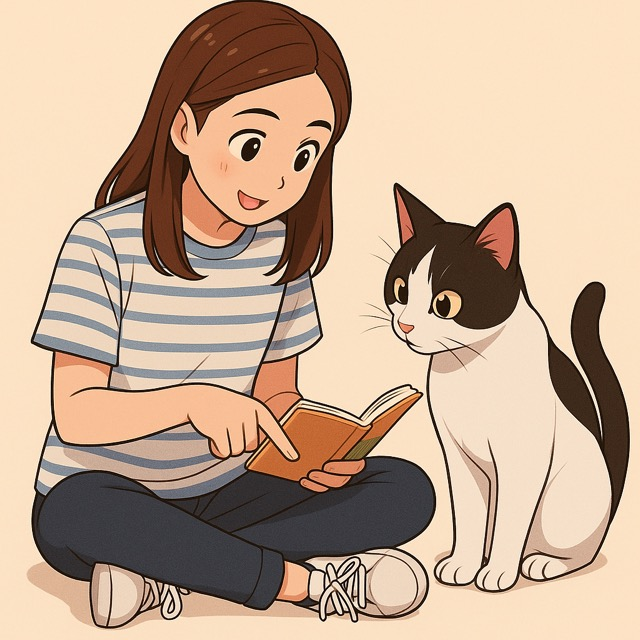
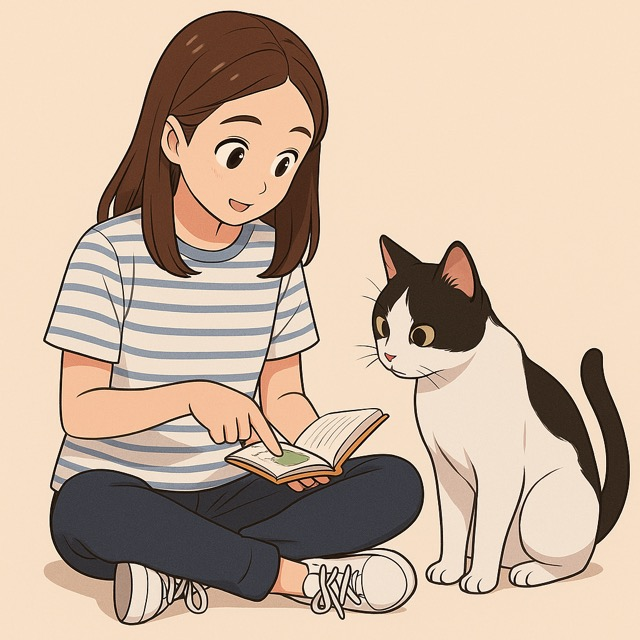
Fix motion-frame consistency and expand every activity to 5 frames (#49)
The educate activity's 3 motion frames didn't read as smooth animation
-- characters visibly grew larger frame to frame, since B/C had been
generated by chaining off the previous frame without constraining
camera distance, letting the model drift zoomed-in each time.

Regenerates every activity (play, train, groom, rest, educate, outing)
to a consistent 5-frame set instead of 3, always referencing a single
well-framed anchor rather than chaining frame-to-frame, with an
explicit "same camera distance, don't zoom in" instruction. Also fixes
a real pre-existing gap: rest's 3rd frame was never generated in Part
4, so its ping-pong would have shown a missing texture.

A bounding-box consistency check (not a repo test, a one-off script)
caught outing-d as a genuine outlier even after two regeneration
attempts -- an independent review confirmed the second attempt hadn't
actually worked. A third attempt, switching both the reference frame
and the generation model, fixed it.

Also switches tools/asset-gen's default model/quality to
gpt-image-2.5-flare/low per a cost-comparison request -- quality held
up well and generation was noticeably faster, with one exception noted
in the planning doc where gpt-image-1 was needed to get outing-d right.

FRAME_SUFFIXES/FRAME_PING_PONG in GameScene.js and BootScene.js
extended from 3 to 5 frames (an 8-step ping-pong instead of 4-step).

Claude-Session: https://claude.ai/code/session_01P8jCh2xqUPaEUnXVrCbo6B

diff --git a/web/src/scenes/GameScene.js b/web/src/scenes/GameScene.js
@@ -14,8 +14,8 @@ const RESOLUTION_STEP_MS = 700;
 const RESOLUTION_DAY_MS = 200;
 const PORTRAIT_SCALE = 0.4;
 const PORTRAIT_GROUND_MARGIN = 6;
-const FRAME_SUFFIXES = ['', '-b', '-c'];
-const FRAME_PING_PONG = [0, 1, 2, 1];
+const FRAME_SUFFIXES = ['', '-b', '-c', '-d', '-e'];
+const FRAME_PING_PONG = [0, 1, 2, 3, 4, 3, 2, 1];
 const DIET_VIGNETTE_COLOR = 0x8a8f4d;
 
 const CANVAS_WIDTH = 960;

diff --git a/web/src/scenes/BootScene.js b/web/src/scenes/BootScene.js
@@ -3,7 +3,7 @@ import { ALL_PORTRAIT_KEYS } from '../utils/portrait.js';
 
 const ACTIVITY_SCENE_IDS = ['play', 'train', 'groom', 'rest', 'educate', 'outing'];
 const SEASON_IDS = ['winter', 'spring', 'summer', 'autumn'];
-const FRAME_SUFFIXES = ['', '-b', '-c'];
+const FRAME_SUFFIXES = ['', '-b', '-c', '-d', '-e'];
 
 export class BootScene extends Phaser.Scene {
   constructor() {

diff --git a/tools/asset-gen/generate_image.py b/tools/asset-gen/generate_image.py
@@ -40,8 +40,8 @@ def parse_args() -> argparse.Namespace:
         choices=sorted(VALID_BACKGROUNDS),
         help="'transparent' requires PNG output (the default --out extension)",
     )
-    parser.add_argument("--model", default="gpt-image-1", help="Image model to use")
-    parser.add_argument("--quality", default="auto", choices=sorted(VALID_QUALITIES))
+    parser.add_argument("--model", default="gpt-image-2.5-flare", help="Image model to use")
+    parser.add_argument("--quality", default="low", choices=sorted(VALID_QUALITIES))
     return parser.parse_args()
 
 

diff --git a/docs/planning/calendar-and-motion-overhaul.md b/docs/planning/calendar-and-motion-overhaul.md
@@ -1,6 +1,6 @@
 ---
-status: deployed
-updated: 2026-09-18
+status: review
+updated: 2026-09-19
 ---
 
 # Calendar-and-motion overhaul
@@ -280,6 +280,97 @@ blossom bloom, correctly composing with the sick-cat portrait variant and
 stress badge, with no layout overlap anywhere (calendar grid, month
 summary message, play button). Merged (#46) and deployed to production;
 re-verified live at `http://54.116.51.0:8000` after deploy.
+
+## Follow-up: consistent framing, and 5 frames per activity instead of 3
+
+Part 4 shipped 3 motion frames per activity (pose A/B/C, ping-ponged
+during the resolution animation). The user reported that, played back to
+back, the "교육" (educate) activity's frames didn't read as a smooth
+gesture animation — the characters visibly grew larger frame to frame,
+so the ping-pong looked like a sudden zoom in/out rather than a still
+scene with a changing pose. Root cause: frames B and C were originally
+generated by prompting for "the same scene, new pose" using the previous
+frame as `--ref`, without explicitly constraining camera distance/zoom —
+the model drifted tighter (more zoomed-in) with each generation.
+
+Fix pattern (validated on `educate` first, then applied to all 6
+activities per the user's follow-up direction — "fix every scene, and use
+5 frames instead of 3, don't ask, just do it"): regenerate every
+non-anchor frame from a single well-framed anchor image (not chained
+frame-to-frame) with an explicit anti-zoom instruction — "WIDE SHOT, NOT
+a close-up," describing the visible empty-background margin and
+full-figure framing in the reference and demanding it be reproduced
+exactly, in addition to the existing "only change the pose" instruction.
+
+Per-activity approach (reusing already-good frames rather than
+regenerating indiscriminately):
+- **educate**: frames B/C were already fixed and well-matched to each
+  other; frame A was the outlier (measured 99.8%/90.5% height/width vs.
+  B/C's ~96.5%/92%). Regenerated frame A from B (not the reverse) plus 2
+  new poses (D, E), all referencing B.
+- **rest**: frame C was missing entirely (a real gap from Part 4 — never
+  generated, so the ping-pong's day 3-of-cycle would show no image at
+  all). Generated C, D, E from frame A.
+- **play, train, groom, outing**: existing A/B/C were already reasonably
+  consistent with each other (measured — see below); kept all 3 and
+  generated 2 new poses (D, E) each, referencing the activity's frame A
+  (or, for `outing`, an already-consistent frame).
+
+Verification: a one-off `numpy`/Pillow script (not a repo test) comparing
+each frame's non-background bounding box as a fraction of image
+width/height, cross-checked against direct visual comparison. This caught
+a real regression the eye might have missed at first glance —
+`scene-outing-d.jpg` measured as a clear outlier (83-85% height vs. 94-96%
+for outing's other frames) after two regeneration attempts using the
+activity's frame A as reference with increasingly explicit "same pixel
+size" instructions — an independent `review-agent` pass caught that the
+second attempt hadn't actually fixed it (the doc briefly claimed
+otherwise before this was caught). A third attempt fixed it: switching
+the reference to `scene-outing-c.jpg` (an already-confirmed-consistent
+frame, not the original frame A) and switching the generation model back
+to `gpt-image-1` (from the cheaper `gpt-image-2.5-flare` default this
+batch had switched to) finally produced a matching frame — 91.6%
+height / 89.4% width, within a few points of its siblings' 93.6-95.6% /
+85.2-85.9%, both quantitatively and on direct visual comparison. It also
+flagged `scene-play-e.jpg` and `scene-outing-e.jpg` as outliers, but
+direct visual inspection showed these were legitimate consequences of the
+pose itself (the girl kneeling/crouching low naturally shrinks the
+content bounding box without any camera zoom change) — the bounding-box
+heuristic conflates "pose that reduces silhouette height" with "zoom
+drift," so it's a useful first pass but not a substitute for eyeballing
+the actual images, especially for poses that change body posture
+significantly. `groom` and `rest` both measured a saturated 99.8%/99.8%
+across all 5 frames uniformly (likely because their
+compositions already crop close to the frame edges on all sides), which
+reads as consistent (identical) but isn't a meaningful absolute
+measurement on its own.
+
+Code changes in `web/src/scenes/GameScene.js` and `BootScene.js`:
+`FRAME_SUFFIXES` extended from `['', '-b', '-c']` to
+`['', '-b', '-c', '-d', '-e']`, and `FRAME_PING_PONG` from `[0,1,2,1]` to
+`[0,1,2,3,4,3,2,1]` (an 8-step bounce through all 5 poses instead of a
+4-step bounce through 3). `BootScene.js` now preloads 5 frames per
+activity (30 total) instead of 3 (18 total).
+
+Also switched `tools/asset-gen/generate_image.py`'s defaults from
+`gpt-image-1`/`auto` quality to `gpt-image-2.5-flare`/`low` quality
+mid-batch, per the user's request to test cost — visually the output
+quality held up well for this style of flat illustration, and generation
+was noticeably faster. The remaining frames in this batch (roughly half)
+were generated with the new default; no quality regression was observed
+comparing frames generated before and after the switch. One exception:
+`scene-outing-d.jpg`'s third regeneration attempt (see above) used an
+explicit `--model gpt-image-1 --quality auto` override rather than the
+new default — after two failed attempts at the default, this was a
+deliberate attempt to rule out the cheaper model as the cause of the
+scale drift, and it worked, though it's not conclusive proof the cheaper
+model was actually the culprit (the reference image also changed in the
+same attempt).
+
+Verified live: played a month with each of several activities scheduled,
+confirming the day-by-day frame cycling advances through poses without
+visible pop/zoom; all 30 frames resized to the existing 640x640 JPEG
+convention (~65-120KB each).
 
 ## Why this order
 

diff --git a/tools/asset-gen/README.md b/tools/asset-gen/README.md
@@ -1,10 +1,11 @@
 # asset-gen
 
 A dev-time tool, not part of the shipped game. It calls the OpenAI Images
-API (`gpt-image-1`) to composite reference art (character sheets, background
-photos) into a single illustration, since no image-generation capability
-exists in this repo's normal workflow otherwise. Output PNGs get committed
-as game assets under `web/`; the tool itself doesn't run in production.
+API (`gpt-image-2.5-flare` at `low` quality, by default) to composite
+reference art (character sheets, background photos) into a single
+illustration, since no image-generation capability exists in this repo's
+normal workflow otherwise. Output PNGs get committed as game assets under
+`web/`; the tool itself doesn't run in production.
 
 ## Setup
 
@@ -30,10 +31,9 @@ uv run python generate_image.py \
   `1024x1536`, `auto`.
 - `--background` defaults to `auto`; other options are `opaque`,
   `transparent` (requires PNG output, the default `--out` extension).
-- `--model` defaults to `gpt-image-1`; pass any other image model the
-  account has access to (e.g. `gpt-image-2.5-flare`) to compare cost/quality.
-- `--quality` defaults to `auto`; other options are `low`, `medium`,
-  `high`, `standard`, `xhigh`, `max` — lower quality is cheaper and faster,
-  useful for cost experiments before committing to a final asset.
+- `--model` defaults to `gpt-image-2.5-flare`; pass any other image model
+  the account has access to (e.g. `gpt-image-1`) to compare cost/quality.
+- `--quality` defaults to `low` (cheapest/fastest); other options are
+  `medium`, `high`, `standard`, `xhigh`, `max`, `auto`.
 - Costs real money per call — check the prompt before running, and prefer
   fewer, more deliberate iterations over rapid trial-and-error.
